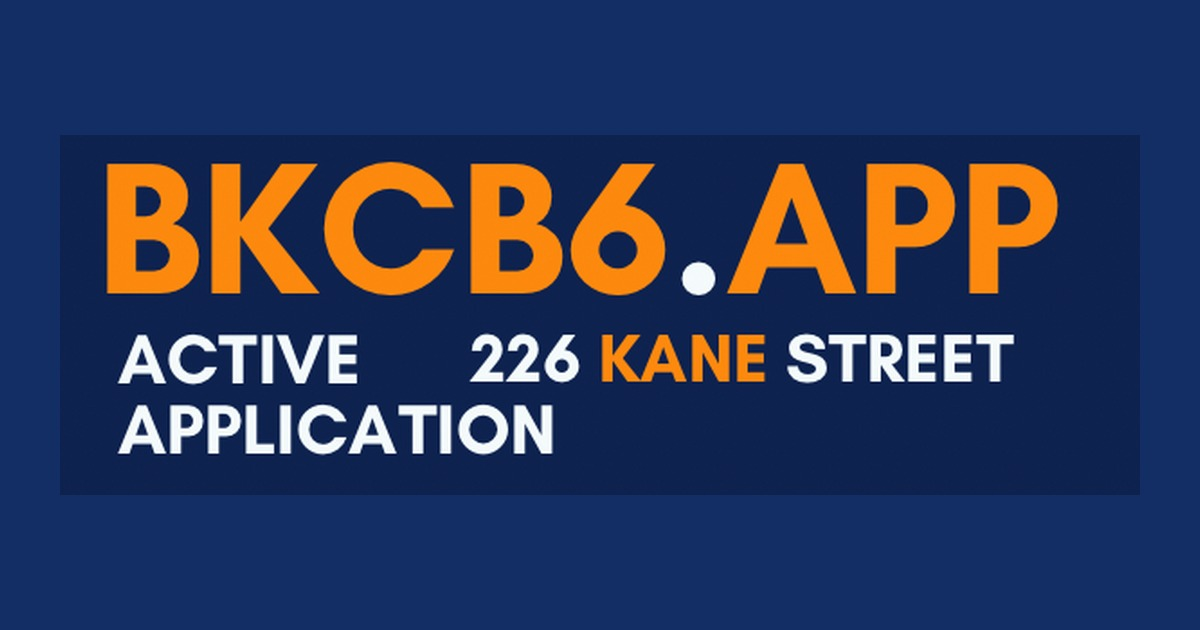
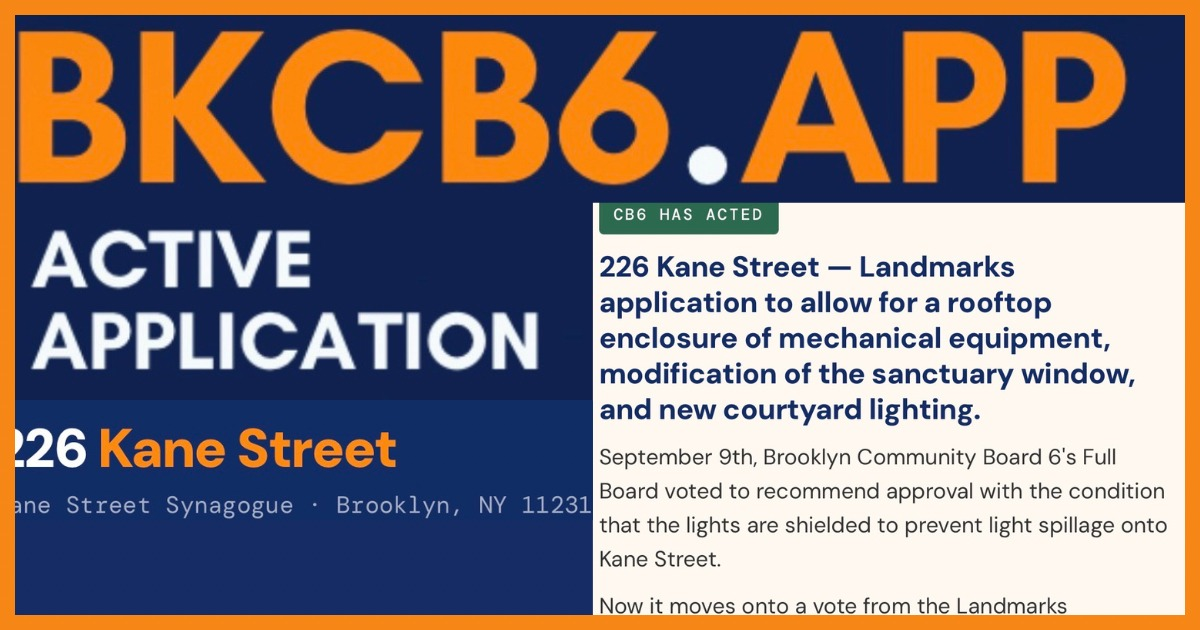
active/226-kane-street: new og image; sw cb6-v1539

diff --git a/active/226-kane-street/index.html b/active/226-kane-street/index.html
@@ -11,15 +11,15 @@
 <meta property="og:title" content="226 Kane Street &middot; Active LPC application &middot; Brooklyn CB6">
 <meta property="og:description" content="LPC-26-12518, Kane Street Synagogue, Cobble Hill Historic District. Certificate of Appropriateness for a rooftop enclosure of mechanical equipment, modification of the sanctuary window, and new courtyard lighting. CB6 voted September 9, 2026 to recommend approval with one condition. Not yet calendared by LPC.">
 <meta property="og:url" content="https://bkcb6.app/active/226-kane-street">
-<meta property="og:image" content="https://bkcb6.app/og-226-kane-street-lpc.jpg?v=20260912">
-<meta property="og:image:secure_url" content="https://bkcb6.app/og-226-kane-street-lpc.jpg?v=20260912">
+<meta property="og:image" content="https://bkcb6.app/og-226-kane-street-lpc.jpg?v=20260912b">
+<meta property="og:image:secure_url" content="https://bkcb6.app/og-226-kane-street-lpc.jpg?v=20260912b">
 <meta property="og:image:type" content="image/jpeg">
 <meta property="og:image:width" content="1200"><meta property="og:image:height" content="630">
 <meta property="og:image:alt" content="BKCB6.APP &mdash; Active application, 226 Kane Street">
 <meta name="twitter:card" content="summary_large_image">
 <meta name="twitter:title" content="226 Kane Street &middot; Active LPC application &middot; Brooklyn CB6">
 <meta name="twitter:description" content="LPC-26-12518, Kane Street Synagogue, Cobble Hill Historic District. CB6 voted September 9, 2026 to recommend approval with one condition. Not yet calendared by LPC.">
-<meta name="twitter:image" content="https://bkcb6.app/og-226-kane-street-lpc.jpg?v=20260912">
+<meta name="twitter:image" content="https://bkcb6.app/og-226-kane-street-lpc.jpg?v=20260912b">
 <link rel="stylesheet" href="https://unpkg.com/leaflet@1.9.4/dist/leaflet.css"/>
 <script src="https://unpkg.com/leaflet@1.9.4/dist/leaflet.js"></script>
 <link rel="preconnect" href="https://fonts.googleapis.com">

diff --git a/sw.js b/sw.js
@@ -1,5 +1,5 @@
 // CB6 & Beyond — Service Worker
-const CACHE_VERSION = 'cb6-v1538';
+const CACHE_VERSION = 'cb6-v1539';
 const CORE_ASSETS = [
   '/',
   '/index.html',
